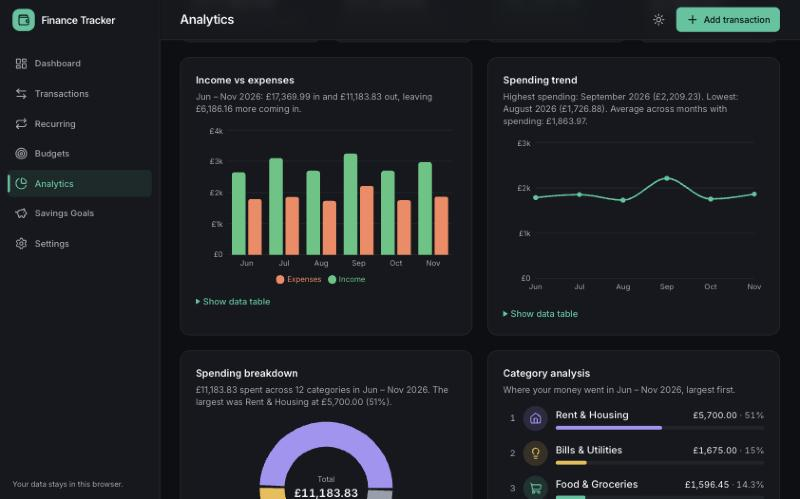
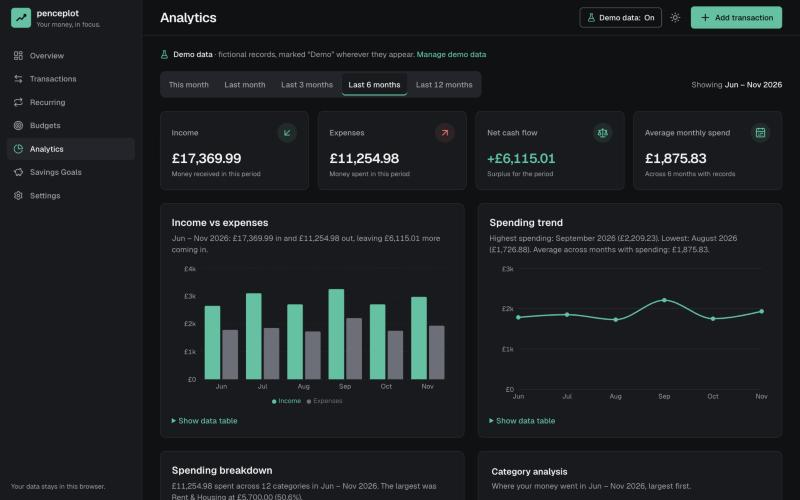
docs: rebrand README, product brief and design guidelines to PencePlot

diff --git a/DESIGN.md b/DESIGN.md
@@ -1,17 +1,17 @@
 ---
-name: Finance Tracker
-description: A private, accessible personal finance tracker for everyday UK users. Premium, minimalist fintech with figures first.
+name: PencePlot
+description: Your money, in focus. A private, accessible personal finance tracker for everyday UK users. Premium, minimalist fintech with figures first.
 ---
 
-<!-- SEED: design direction set by the owner on 2026-11-26, before the redesign is implemented. The current code still uses the previous look (Inter, softer radii, pill badges). Values below are targets, not yet tokens in code. Re-run /impeccable document once the redesign is built, so the frontmatter carries the real tokens and the sidecar is generated. -->
+<!-- SEED: design direction set by the owner on 2026-11-26. The theme tokens, Geist and the shared components are now built, and the Overview and Budgets pages are redesigned (PR #29); Transactions, Recurring, Analytics, Savings Goals and Settings still have their earlier layouts. Re-run /impeccable document once every page is redesigned, so the frontmatter carries the real tokens and the sidecar is generated. -->
 
-# Design System: Finance Tracker
+# Design System: PencePlot
 
 ## Overview
 
 **Creative North Star: "The Quiet Ledger"**
 
-Finance Tracker should feel like a well-kept ledger on a dark desk: precise, calm and private. The numbers are the hero. Each screen leads with the one figure that answers the user's question ("How much can I still spend?", "Did I earn more than I spent?"). Supporting figures sit compactly beneath it, and detail follows as open rows and tables rather than boxes. It's premium through restraint and craft: exact alignment, tabular figures, a disciplined colour vocabulary and nothing decorative. It shouldn't rely on effects.
+PencePlot should feel like a well-kept ledger on a dark desk: precise, calm and private. The numbers are the hero. Each screen leads with the one figure that answers the user's question ("How much can I still spend?", "Did I earn more than I spent?"). Supporting figures sit compactly beneath it, and detail follows as open rows and tables rather than boxes. It's premium through restraint and craft: exact alignment, tabular figures, a disciplined colour vocabulary and nothing decorative. It shouldn't rely on effects.
 
 The references set the craft bar, not the look to copy: Copilot Money (figure-led finance screens), Linear (density, crisp hierarchy, quiet chrome) and Monzo (approachable, plain-spoken money language). The app must stay recognisably its own: turquoise on near-black, open rows and a circular budget gauge as its signature.
 
@@ -37,6 +37,15 @@ It's sophisticated but approachable, modern without trendiness, compact without 
   - a hero panel with the prominent amount available to spend, days remaining, and a circular "% used" gauge on the right
   - a hairline divider, then three compact metrics (budget, spent, daily allowance)
   - category budgets as open rows: icon tile, name, "£spent of £limit", percentage, an overflow menu, a full-width thin progress bar, and the amount remaining
+
+### Brand identity
+
+- **Name:** PencePlot, written "PencePlot" in prose, titles and metadata.
+- **Wordmark:** "penceplot" in lowercase, Geist semibold at 16px with slight negative tracking (−0.01em), in primary text. It's the only place the lowercase form is used, and screen readers hear "PencePlot".
+- **Tagline:** "Your money, in focus." in 12px secondary text directly under the wordmark, and in the page metadata. Keep the wording and full stop exactly.
+- **Mark:** a plotted line rising through three points into a solid focus dot at its last point, in near-black (#101113) on a Signature Turquoise tile with 6–7px corners. In the app it's drawn in the current text colour (`LogoMark` in `src/components/layout/Logo.tsx`). The favicon (`public/favicon.svg`) is the same drawing with fixed colours, so it reads on light and dark browser chrome alike.
+- **Browser title:** "PencePlot | Personal Finance", with each page's name in front ("Budgets · PencePlot | Personal Finance").
+- **Restraint:** the brand appears once, in the sidebar (or the mobile menu). Pages never repeat the logo, add brand colour washes or decorate headings with the mark. There's no marketing landing page.
 
 ## Colors
 
@@ -99,7 +108,7 @@ Light mode must feel like the same product in daylight, not a different theme.
 **Font:** Geist (UI and figures), falling back to `ui-sans-serif, system-ui, sans-serif`.
 **Figures:** Geist with `font-variant-numeric: tabular-nums`, so columns of money line up digit for digit.
 
-> **Dependency note:** Geist isn't installed. The current app uses Inter (installed through Fontsource). Adding Geist (for example the Fontsource Geist package) is a new dependency and **needs the owner's approval** before implementation. Until it's approved, the type rules below apply to Inter.
+> **Installed:** Geist comes from the Fontsource Geist package (owner-approved), self-hosted with no external font requests.
 
 **Character:** one neutral, engineered sans for everything. Hierarchy comes from size, weight and colour, never from mixing families.
 
@@ -260,17 +269,11 @@ Rows are separated by hairlines, not boxed.
 - **Don't** rely on colour alone for any status, or show a percentage, gauge or bar without its value in text.
 - **Don't** change financial calculations, data models, storage or demo data controls as part of a design change. New figures need the owner's approval first (see below).
 
-## Open decisions (need the owner's approval before implementation)
+## Decisions made
 
-- **Geist font:** a new dependency. Until it's approved, use Inter.
-- **"Daily allowance" and "days remaining this month"** (Budgets reference): these are new derived figures (remaining ÷ days left), not existing calculations. Adding them changes product behaviour, so they need approval and their own tested logic. The rounding rule also needs deciding.
-- **Copy changes seen in the references:**
-  - "Overview" for Dashboard
-  - "+ New budget" for "Add budget"
-  - "Demo mode" for the "Demo data" switch
-  - "Available to spend" and "Remaining to spend" wording
-
-  Keep the current wording until each change is approved.
-
-- **Light-mode values:** proposed above. They must pass `src/styles/themeContrast.test.ts` when implemented.
-- **Positive colour:** this direction merges the separate green into turquoise. Confirm this when implementing, since it changes the "Goal reached" and "On track" colour.
+- **Geist font:** approved and installed, replacing Inter.
+- **Daily allowance and days remaining:** approved. They're computed in `src/features/budgets/allowance.ts`, rounding the allowance down to the penny so it never adds up to more than is left.
+- **"Overview"** replaces "Dashboard" (approved). "Add budget" and the "Demo data" switch keep their wording.
+- **Positive colour:** turquoise, approved, with no separate green.
+- **Light-mode values:** built as proposed, and checked by `src/styles/themeContrast.test.ts`.
+- **Brand:** PencePlot, "Your money, in focus." (see Brand identity).

diff --git a/README.md b/README.md
@@ -1,9 +1,11 @@
-# Finance Tracker
+# <img src="public/favicon.svg" alt="" width="32" height="32"> PencePlot
+
+**Your money, in focus.**
 
 [![CI](https://github.com/Ibz909/Finance-Tracker/actions/workflows/ci.yml/badge.svg)](https://github.com/Ibz909/Finance-Tracker/actions/workflows/ci.yml)
 [![Deploy](https://github.com/Ibz909/Finance-Tracker/actions/workflows/deploy.yml/badge.svg)](https://github.com/Ibz909/Finance-Tracker/actions/workflows/deploy.yml)
 
-A personal finance tracker for recording income and spending in GBP, setting budgets, saving towards goals and seeing where your money goes. Built with React, TypeScript and Tailwind CSS.
+PencePlot is a personal finance tracker for recording income and spending in GBP, setting budgets, saving towards goals and seeing where your money goes. Built with React, TypeScript and Tailwind CSS.
 
 **Everything stays in your browser:** there is no server, no account and no tracking.
 
@@ -11,11 +13,11 @@ A personal finance tracker for recording income and spending in GBP, setting bud
 
 Turn on **Demo data** in the top bar to explore with six months of fictional data, then turn it off to start with your own.
 
-![Dashboard in the light theme, showing monthly income, expenses, net cash flow, savings rate and recent transactions](docs/screenshots/dashboard-light.jpg)
+![PencePlot's Overview in the light theme, led by net cash flow, with income, expenses, savings rate, a cash flow chart beside the monthly budget, and recent activity](docs/screenshots/dashboard-light.jpg)
 
 <p>
-  <img src="docs/screenshots/analytics-dark.jpg" alt="Analytics page in the dark theme, with an income versus expenses bar chart, a spending trend line and a category ranking" width="64%">
-  <img src="docs/screenshots/budgets-mobile.jpg" alt="Budgets page on a phone, showing an overall budget nearing its limit and a groceries budget on track" width="30%">
+  <img src="docs/screenshots/analytics-dark.jpg" alt="PencePlot's Analytics page in the dark theme, with an income versus expenses bar chart, a spending trend line and a category ranking" width="64%">
+  <img src="docs/screenshots/budgets-mobile.jpg" alt="PencePlot's Budgets page on a phone, showing the amount available to spend, a gauge of the monthly budget used, and category budgets nearing their limits" width="30%">
 </p>
 
 <sub>Screenshots show the app's built-in fictional demo data.</sub>
@@ -23,8 +25,8 @@ Turn on **Demo data** in the top bar to explore with six months of fictional dat
 ## Features
 
 - **Transactions:** add, edit and delete income and expenses, then search, filter by type, category and date, and sort. Filters are kept in the URL, so a view can be bookmarked.
-- **Dashboard:** income, expenses, net cash flow and savings rate for any month, with recent transactions, budget progress, savings goals and charts.
-- **Budgets:** one overall monthly limit and one per spending category, each shown as _On track_, _Nearing limit_ or _Over budget_.
+- **Overview:** net cash flow for any month, with income, expenses and savings rate, a cash flow chart beside what's left of the monthly budget, recent activity and savings goals.
+- **Budgets:** one overall monthly limit, led by what's left to spend, the days remaining and a daily allowance, plus one limit per spending category. Each is shown as _On track_, _Nearing limit_ or _Over budget_.
 - **Analytics:** income vs expenses, a spending trend and a category breakdown for this month, last month, or the last 3, 6 or 12 months. Every chart has a written summary and a table of the exact figures.
 - **Recurring transactions:** set up salary, rent or subscriptions once. Each payment is added on its due date, including any that fell due while the app was closed. Schedules can be paused, resumed and edited.
 - **Savings goals:** record deposits and withdrawals towards a target, and see how much to save each month to reach it by a date. Saving isn't counted as spending.

diff --git a/PRODUCT.md b/PRODUCT.md
@@ -14,7 +14,7 @@ web
 
 ## Product Purpose
 
-A personal finance tracker that shows where your money goes, whether you're staying within your budgets, and how close you are to your savings goals, without handing your financial data to anyone. Success for a user is a quick, trustworthy answer about their month and confidence that the numbers are right. Success for the portfolio is that a visitor can see a finished, careful, professional product within a minute of opening it.
+PencePlot is a personal finance tracker that shows where your money goes, whether you're staying within your budgets, and how close you are to your savings goals, without handing your financial data to anyone. Success for a user is a quick, trustworthy answer about their month and confidence that the numbers are right. Success for the portfolio is that a visitor can see a finished, careful, professional product within a minute of opening it.
 
 ## Positioning
 
@@ -68,7 +68,10 @@ All four of these are confirmed points of difference that later work must protec
 
 ## Brand Commitments
 
-- **Name:** Finance Tracker.
+- **Name:** PencePlot. Written "PencePlot" in prose and titles, and as the lowercase wordmark "penceplot" in the sidebar logo.
+- **Tagline:** "Your money, in focus." It sits under the wordmark and in the app's metadata. Keep it exactly as written, including the full stop.
+- **Browser title:** "PencePlot | Personal Finance", with the page name in front on each page (for example "Budgets · PencePlot | Personal Finance").
+- **Unchanged identifiers:** the GitHub repository and live address keep the name Finance-Tracker, and stored data keeps its `finance-tracker:` keys, so existing users' data is untouched.
 - **Design aim** (set by the owner): a distinctive, professional fintech design rather than generic app conventions. It sits alongside the "calm over clever" principle: the app should feel distinctive through precision and craft, not through noise.
 - **Voice** (observed in the shipped copy, not separately confirmed): plain British English, sentence case, short reassuring sentences, typographic quotes and apostrophes ("You're viewing fictional demo data."). Status words are always written out.
 
